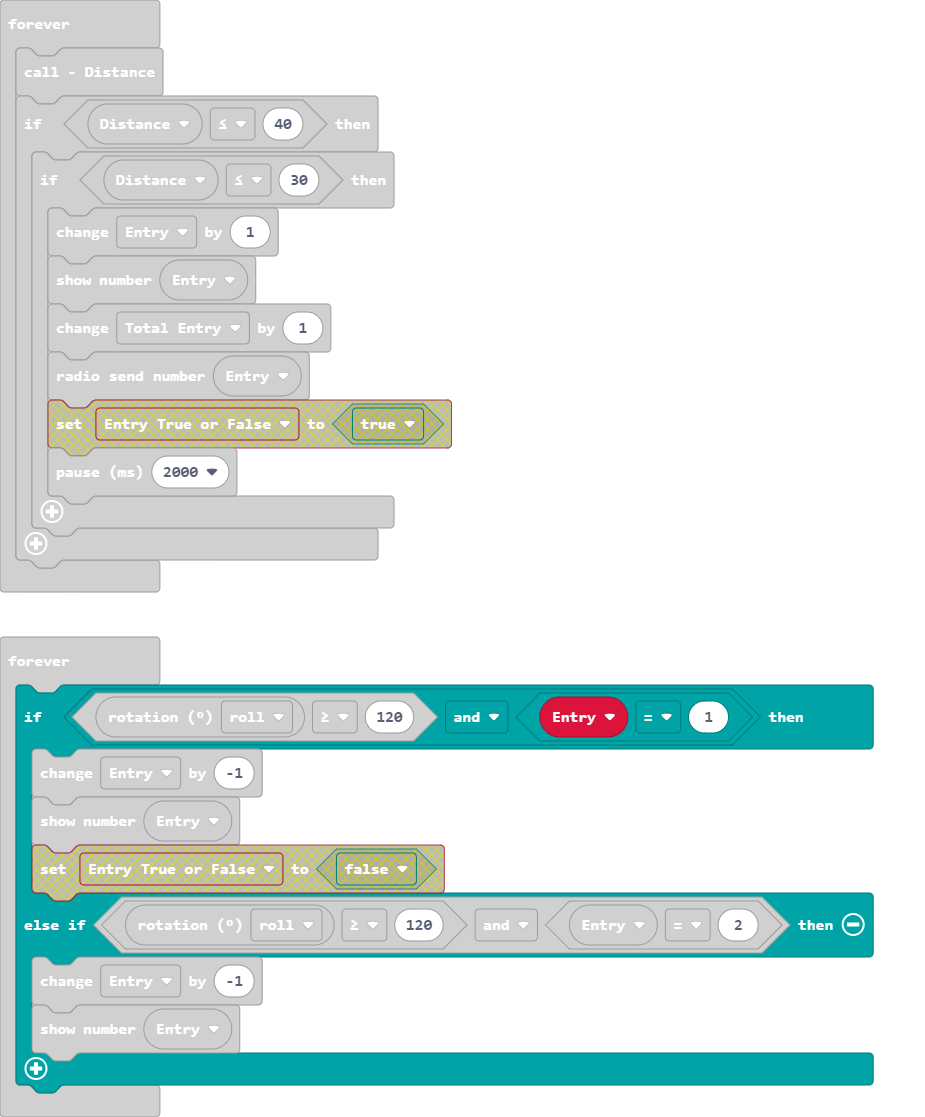
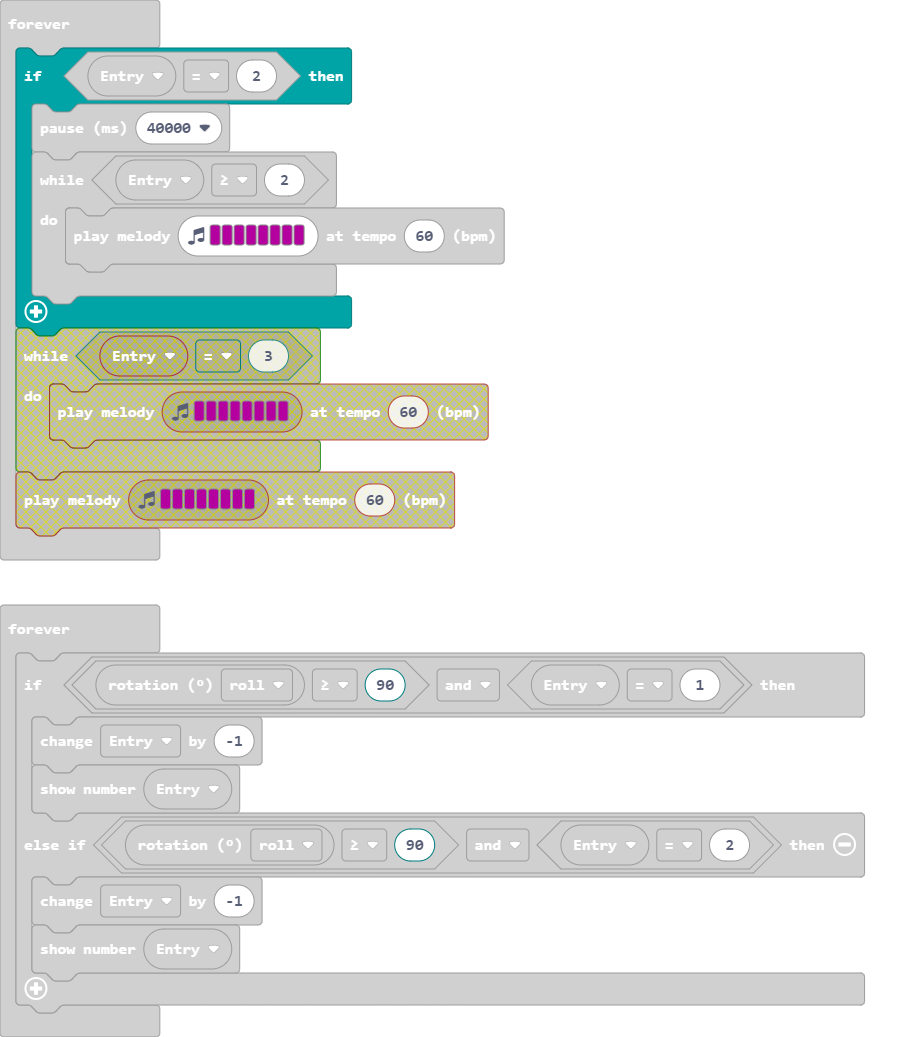
Update main.blocks, main.ts

diff --git a/main.ts b/main.ts
@@ -35,17 +35,13 @@ basic.forever(function () {
         while (Entry >= 2) {
             music.playMelody("C C C C C C C C ", 60)
         }
-    } else if (Entry == 3) {
-        while (Entry == 3) {
-            music.playMelody("C C C C C C C C ", 60)
-        }
     }
 })
 basic.forever(function () {
-    if (input.rotation(Rotation.Roll) >= 120 && Entry == 1) {
+    if (input.rotation(Rotation.Roll) >= 90 && Entry == 1) {
         Entry += -1
         basic.showNumber(Entry)
-    } else if (input.rotation(Rotation.Roll) >= 120 && Entry == 2) {
+    } else if (input.rotation(Rotation.Roll) >= 90 && Entry == 2) {
         Entry += -1
         basic.showNumber(Entry)
     }
